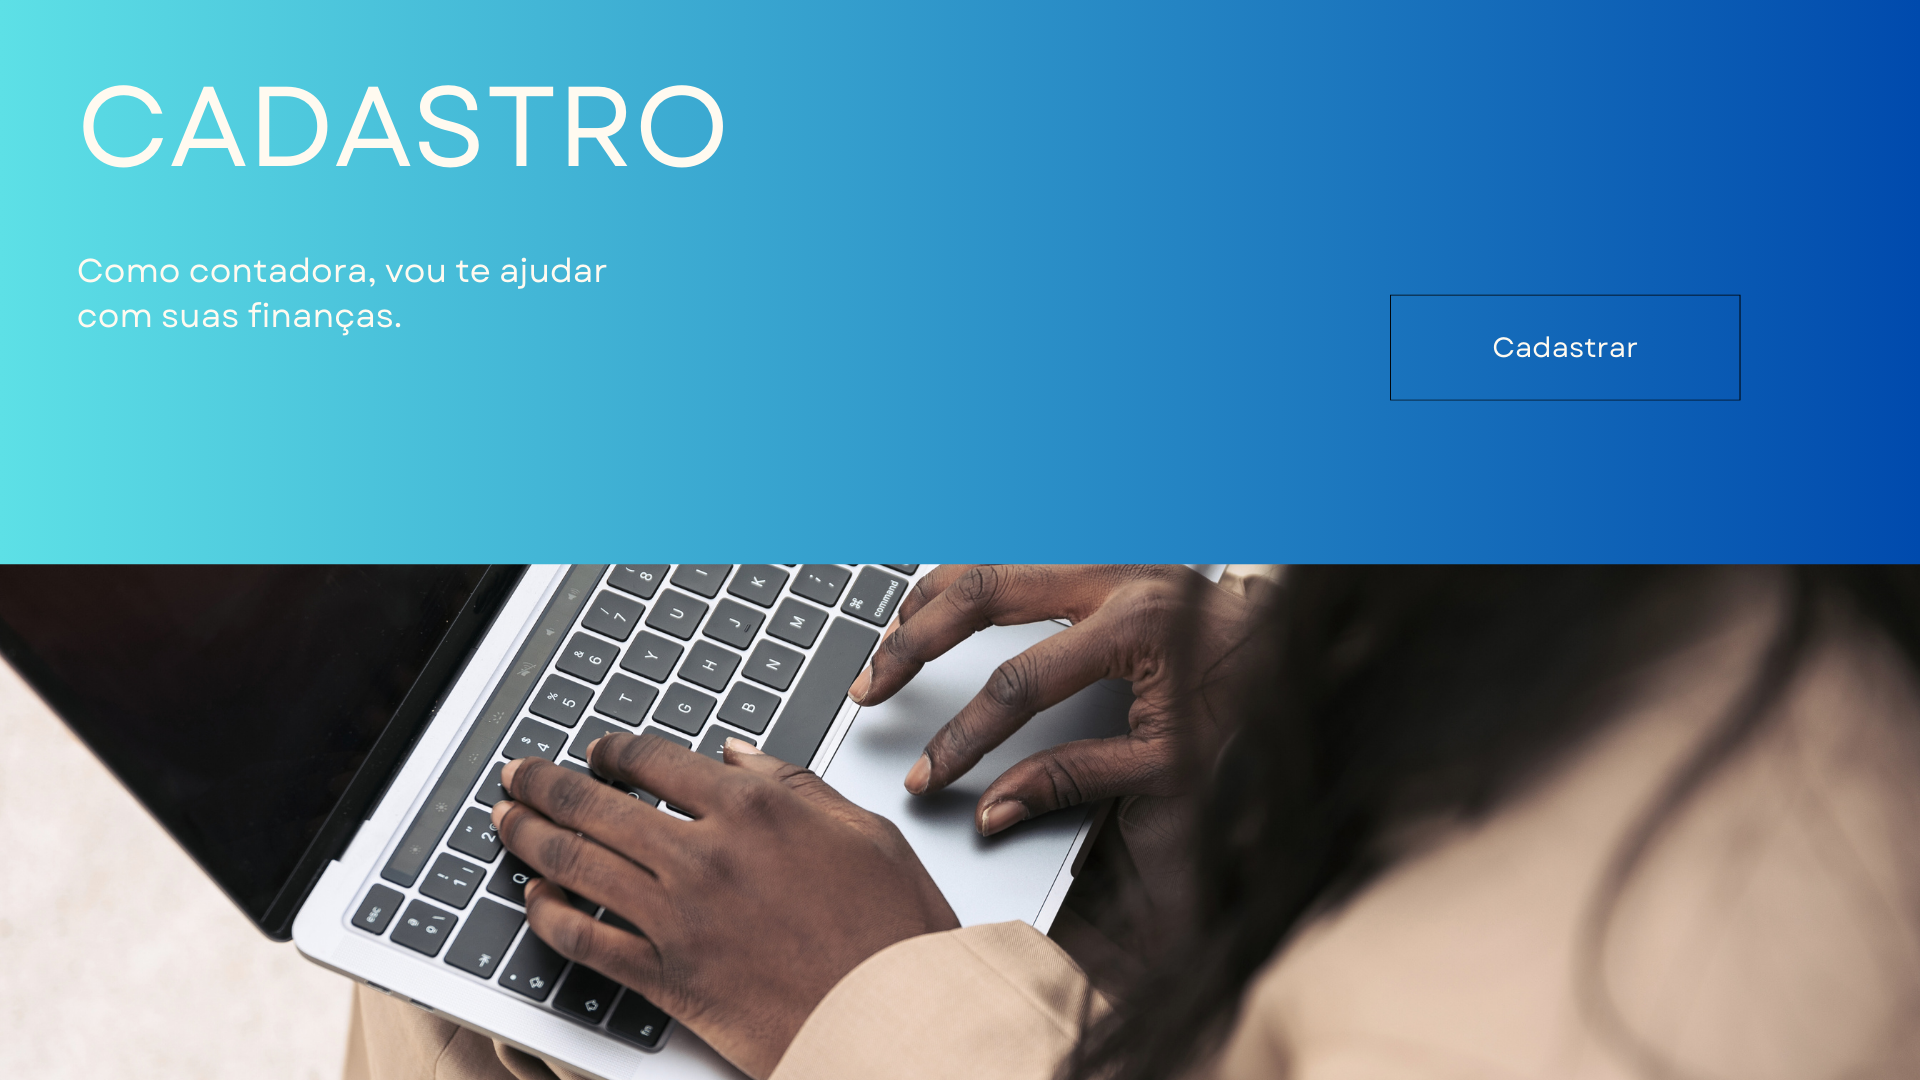
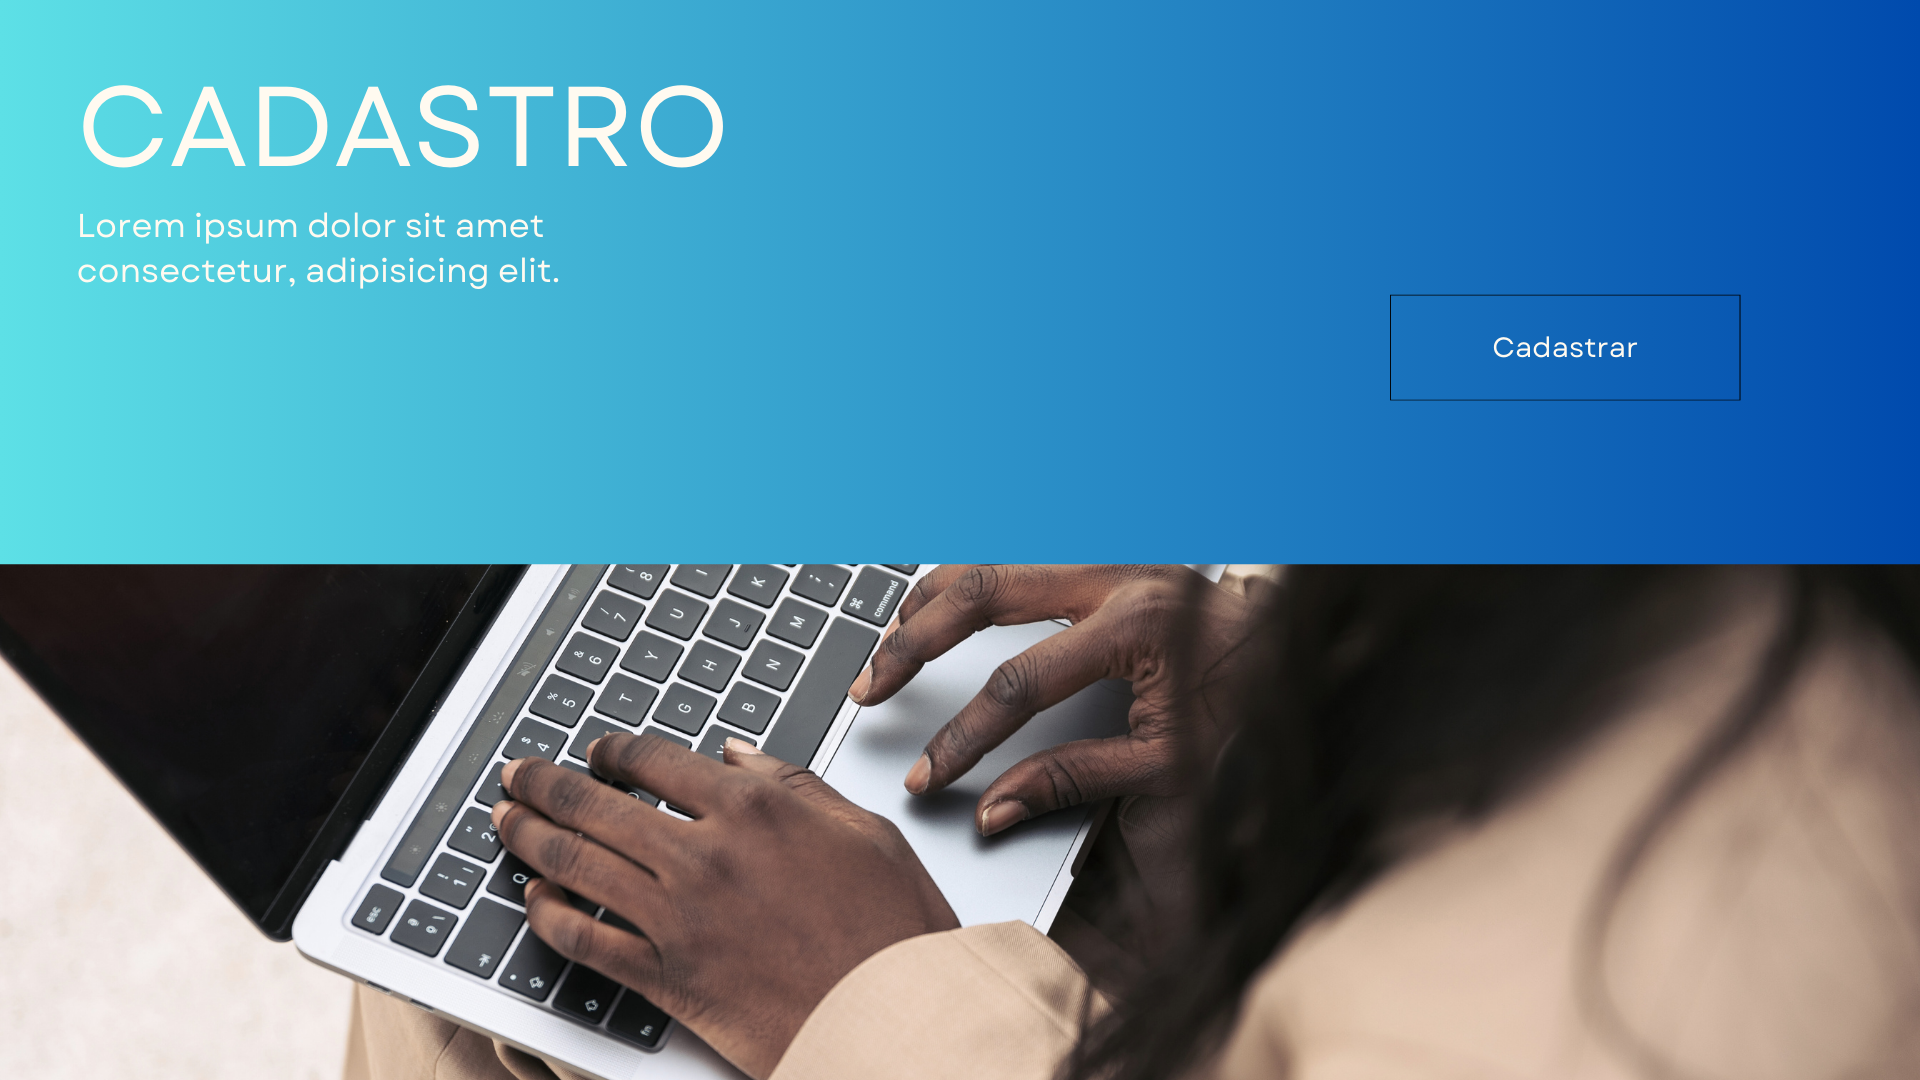
imagem cadastro substituida

Changed region(s): [[0.0312, 0.1833, 0.3125, 0.3056]]

diff --git a/readme.md b/readme.md
@@ -1,4 +1,4 @@
 <h2>Sprint 01 Projeto integrador</h2>
-<h3>Apresentar protótipo inicial do prjeto<h3>
+<h3>Protótipo inicial do prjeto<h3>
 
 [Clique aqui para visualisar o projeto](https://www.canva.com/design/DAGQ8-MJ27w/Lc3XOCgXJ4h7H__E2WbIng/edit?utm_content=DAGQ8-MJ27w&utm_campaign=designshare&utm_medium=link2&utm_source=sharebutton)
